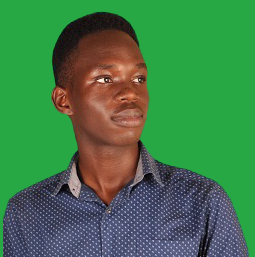
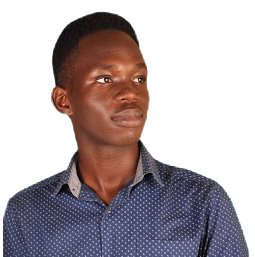
new look

diff --git a/index.html b/index.html
@@ -12,12 +12,12 @@
       crossorigin="anonymous"
     />
 
-    <title>Patrick</title>
+    <title>Patrick Hamza Okello</title>
   </head>
   <body>
     <header>
-      <nav class="navbar navbar-expand-lg navbar-light bg-success">
-        <a class="navbar-brand text-white" href="#">Navbar</a>
+      <nav class="navbar navbar-expand-lg">
+        <a class="navbar-brand" href="#">Pkasemer</a>
         <button
           class="navbar-toggler"
           type="button"
@@ -33,16 +33,16 @@
         <div class="collapse navbar-collapse" id="navbarSupportedContent">
           <ul class="navbar-nav mr-auto">
             <li class="nav-item active">
-              <a class="nav-link text-white" href="#"
+              <a class="nav-link" href="#"
                 >Home <span class="sr-only">(current)</span></a
               >
             </li>
 
             <li class="nav-item">
-              <a class="nav-link text-white" href="project.html">Projects</a>
+              <a class="nav-link" href="project.html">Projects</a>
             </li>
             <li class="nav-item">
-              <a class="nav-link text-white" href="contact.html">Contacts</a>
+              <a class="nav-link" href="contact.html">Contacts</a>
             </li>
           </ul>
         </div>
@@ -50,26 +50,45 @@
     </header>
     <div class="container">
       <main>
-        <section>
+        <section class="mainview">
+
           <div class="name row">
-            <div class="textcontent col-md-7">
-              <h1 class="text-success">Patrick Hamza . PK</h1>
+            <div class="profileimage col-md-4">
+              <img src="images/pk.png" class="img-fluid" alt="patrick image" />
+
+            </div>
+            <div class="textcontent col-md-8">
+              <h1 class="introtext">Hello! I'm Patrick Hamza . PK</h1>
 
               <p>
-                Lorem ipsum dolor sit amet consectetur adipisicing elit.
-                Perspiciatis laboriosam expedita quae mollitia! Voluptatibus
-                dolorem eum est in provident molestiae possimus id ex ipsa
-                impedit. Modi amet quidem illum beatae?
+                I'm a 22-year old student at Mbarara University of Science and
+                Technology currently pursueing a Bachelors Degree in Computer
+                Science. As I've grown as a developer, I have worked on several
+                Web Platforms and Applications including alongside different
+                Teams and Experts in the field of both Back End & Front End Web
+                Development. <p>I also Enjoy other Computer Science Applications
+                such as Machine Learning, Data Science and Robotics in which i
+                have made projects in each respective fields to enable me fully
+                understand how they all interact.</p>
               </p>
             </div>
-            <div class="col-md-5 image-fluid">
-              <img src="images/pk.png" class="img-fluid" alt="patrick image" />
-            </div>
+
           </div>
+          <div class="calltoaction">
+              <button class="emailbutton">Reach Out</button>
+
+          </div>
+
         </section>
 
         <section>
-          <h1 class="text-success">Education</h1>
+          <h1>Education</h1>
+           <p>
+            Lorem ipsum dolor sit, amet consectetur adipisicing elit. Alias,
+            recusandae eius? Quibusdam eos temporibus magnam sed facere, cumque
+            non ea vel, quae iure incidunt iste maxime fugiat doloribus.
+            Voluptatem, excepturi?
+          </p>
           <p>
             Lorem ipsum dolor sit, amet consectetur adipisicing elit. Alias,
             recusandae eius? Quibusdam eos temporibus magnam sed facere, cumque
@@ -93,14 +112,56 @@
           </div>
         </section>
 
+        <section class="row">
+          <div class="desc col-md-4">
+            <h1>Skills Rating</h1>
+
+            <p>
+              Through my studies, I've gained a solid understanding of computer
+              science and web development concepts, and have dedicated a lot of
+              my free time to apply these concepts to real-world scenarios and
+              applications. Through this, I gained the following skills
+            </p>
+          </div>
+          <div class="table col-md-8">
+            <table class="table table-bordered">
+              <thead>
+                <tr>
+                  <th scope="col">Interest</th>
+                  <th scope="col">Scale</th>
+                </tr>
+              </thead>
+              <tbody>
+                <tr>
+                  <td scope="row">Full-Stack Web Development</td>
+                  <td scope="row">9/10</td>
+                </tr>
+                <tr>
+                  <td scope="row">Data Science</td>
+                  <td scope="row">6/10</td>
+                </tr>
+                <tr>
+                  <td scope="row">Mobile Programming</td>
+                  <td scope="row">7/10</td>
+                </tr>
+                <tr>
+                  <td scope="row">UI/Ux Design</td>
+                  <td scope="row">10/10</td>
+                </tr>
+              </tbody>
+            </table>
+          </div>
+        </section>
+
         <section>
-          <h1 class="text-success">Interests</h1>
+          <h1>Interests</h1>
           <p>
             Lorem ipsum dolor sit, amet consectetur adipisicing elit. Facere
             aut, quod aspernatur rem fugit adipisci at quia nihil! Magnam veniam
             libero cupiditate voluptate beatae molestias architecto delectus
             soluta incidunt odio.
           </p>
+
           <div class="interests row">
             <div class="col-md-4">
               <img src="images/school.jpg" class="img-fluid" alt="" />

diff --git a/css/main.css b/css/main.css
@@ -6,6 +6,97 @@
 }
 
 section {
-  padding: 2em 0;
+  padding: 9em 0;
+}
+
+section p,
+section h1 {
+  font-family: "Poppins";
+  color: #333;
+}
+
+section h1 {
+  margin-bottom: 1em;
+  color: black;
+}
+
+section p {
+  line-height: 2.1em;
+}
+
+.mainview {
+  height: 90vh;
+}
+
+.mainview .name {
+  display: -webkit-box;
+  display: -ms-flexbox;
+  display: flex;
+  -webkit-box-align: center;
+      -ms-flex-align: center;
+          align-items: center;
+}
+
+.mainview .introtext {
+  color: black;
+}
+
+.mainview .profileimage {
+  display: block;
+}
+
+.mainview .profileimage img {
+  -webkit-box-shadow: -2px 8px 11px 3px #ecf0f3;
+          box-shadow: -2px 8px 11px 3px #ecf0f3;
+}
+
+.mainview .calltoaction {
+  display: -ms-grid;
+  display: grid;
+  place-content: center;
+}
+
+.mainview .calltoaction .emailbutton {
+  padding: 1em 2em;
+  outline: none;
+  border: 2px solid #fff;
+  background-color: white;
+  display: block;
+  color: #666;
+  -webkit-box-shadow: -1px 1px 12px 6px #ecf0f3;
+          box-shadow: -1px 1px 12px 6px #ecf0f3;
+  text-transform: uppercase;
+  border-radius: 50px;
+  margin: 2em 0;
+}
+
+.mainview .calltoaction .emailbutton:hover {
+  background-color: black;
+  color: white;
+  -webkit-transition: 0.5s;
+  transition: 0.5s;
+}
+
+nav {
+  background-color: #f5f5f5 !important;
+  color: gray !important;
+}
+
+nav .navbar-brand {
+  color: #5d5d5c;
+  font-weight: bold;
+  text-transform: uppercase;
+}
+
+nav .collapse ul .active {
+  color: yellow !important;
+}
+
+nav .collapse ul li a {
+  color: #60636b;
+}
+
+.schoolbackground {
+  padding-top: 2em;
 }
 /*# sourceMappingURL=main.css.map */

diff --git a/css/main.scss b/css/main.scss
@@ -5,5 +5,93 @@
 }
 
 section {
-  padding: 2em 0;
+  padding: 9em 0;
+  p,
+  h1 {
+    font-family: "Poppins";
+    color: #333;
+  }
+
+  h1 {
+    margin-bottom: 1em;
+    color: black;
+  }
+
+  p {
+    line-height: 2.1em;
+  }
+}
+
+.mainview {
+  height: 90vh;
+
+  .name {
+    display: flex;
+    align-items: center;
+  }
+
+  .introtext {
+    color: black;
+  }
+  .profileimage {
+    display: block;
+
+    img {
+      // box-shadow: -1px 1px 12px 6px #ecf0f3;
+      box-shadow: -2px 8px 11px 3px #ecf0f3;
+    }
+  }
+
+  .calltoaction {
+    display: grid;
+    place-content: center;
+
+    .emailbutton {
+      padding: 1em 2em;
+      outline: none;
+      border: 2px solid #fff;
+      background-color: white;
+      display: block;
+      color: #666;
+      box-shadow: -1px 1px 12px 6px #ecf0f3;
+
+      text-transform: uppercase;
+      border-radius: 50px;
+      margin: 2em 0;
+    }
+
+    .emailbutton:hover {
+      background-color: black;
+      color: white;
+      transition: 0.5s;
+    }
+  }
+}
+
+nav {
+  background-color: #f5f5f5 !important;
+  color: gray !important;
+
+  .navbar-brand {
+    color: #5d5d5c;
+    font-weight: bold;
+    text-transform: uppercase;
+  }
+
+  .collapse {
+    ul {
+      .active {
+        color: yellow !important;
+      }
+      li {
+        a {
+          color: #60636b;
+        }
+      }
+    }
+  }
+}
+
+.schoolbackground {
+  padding-top: 2em;
 }

diff --git a/contact.html b/contact.html
@@ -81,7 +81,6 @@
                 <label for="project">Project Type</label>
                 <select name="project" class="form-control" id="">
                   <option value="">-- Select Project Type --</option>
-
                   <option value="">Machine Learning</option>
                   <option value="">Big Data</option>
                   <option value="">Food Security</option>
